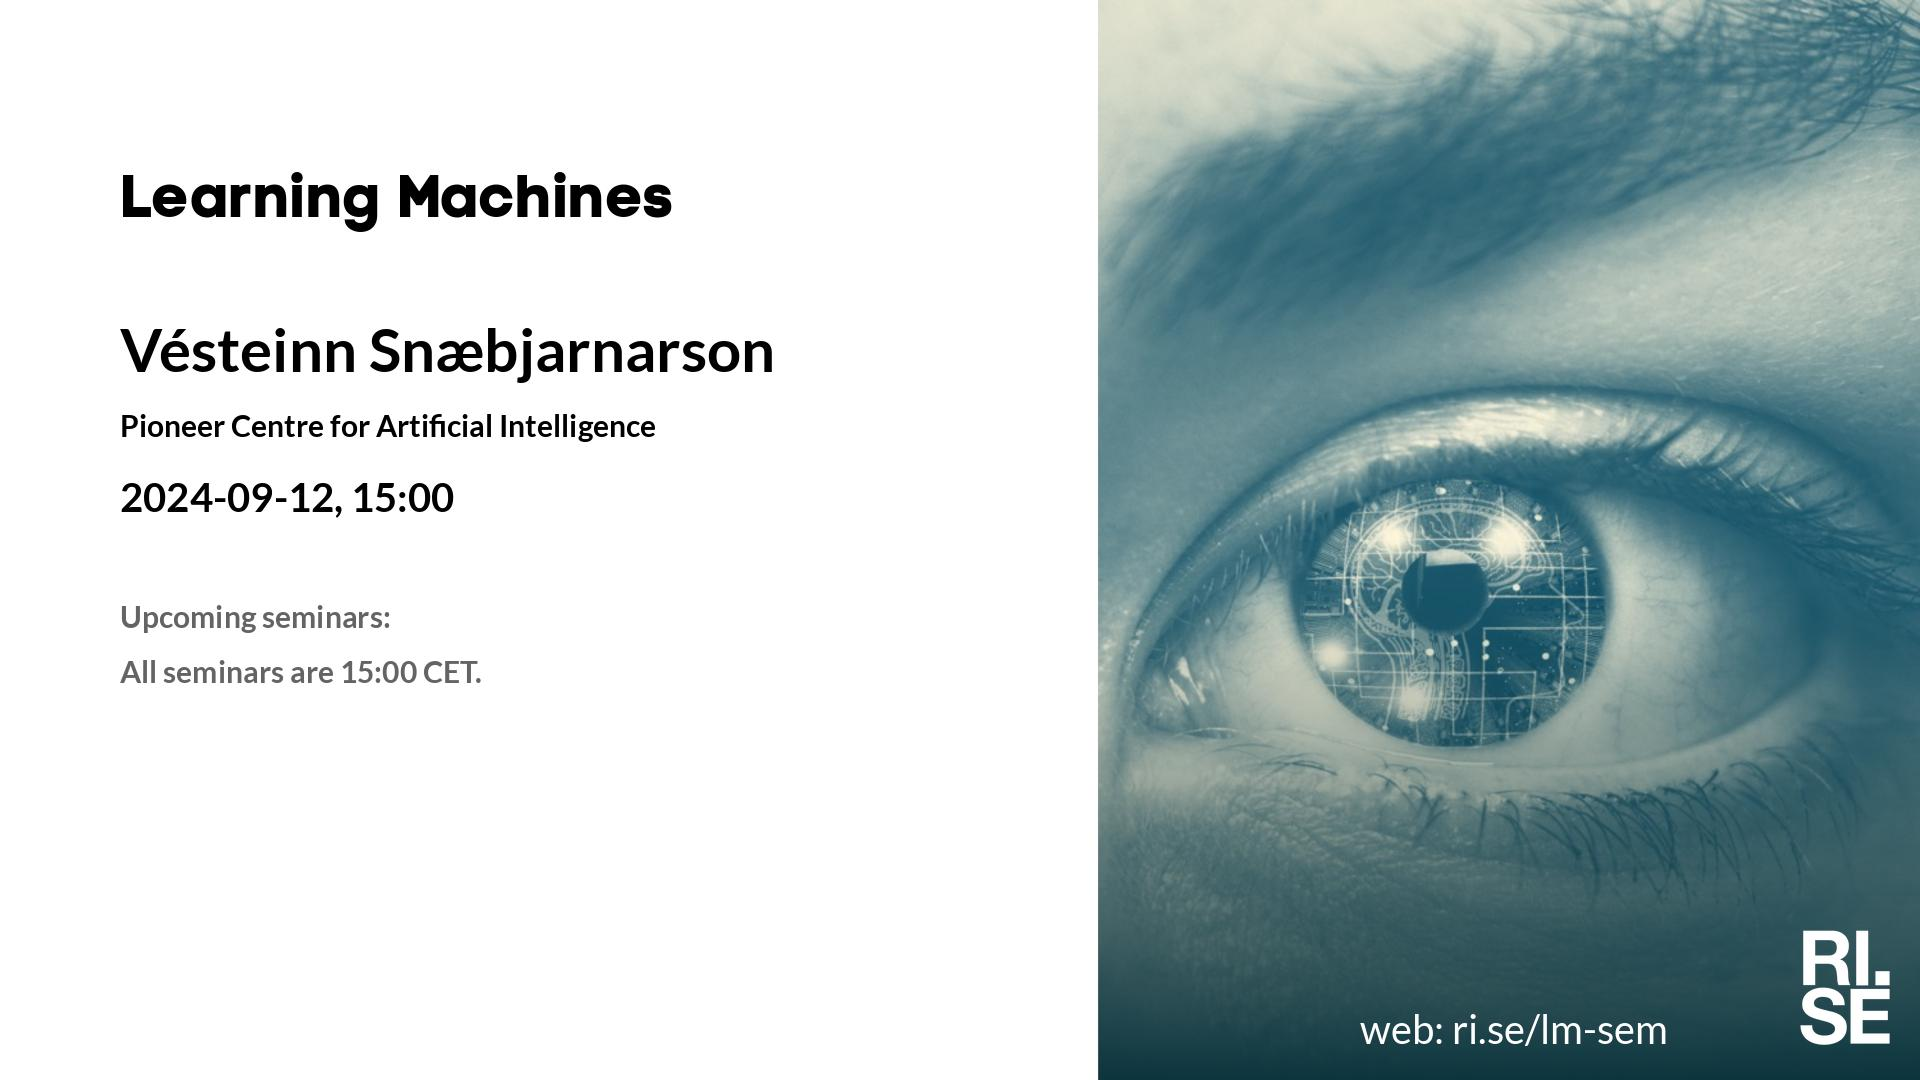
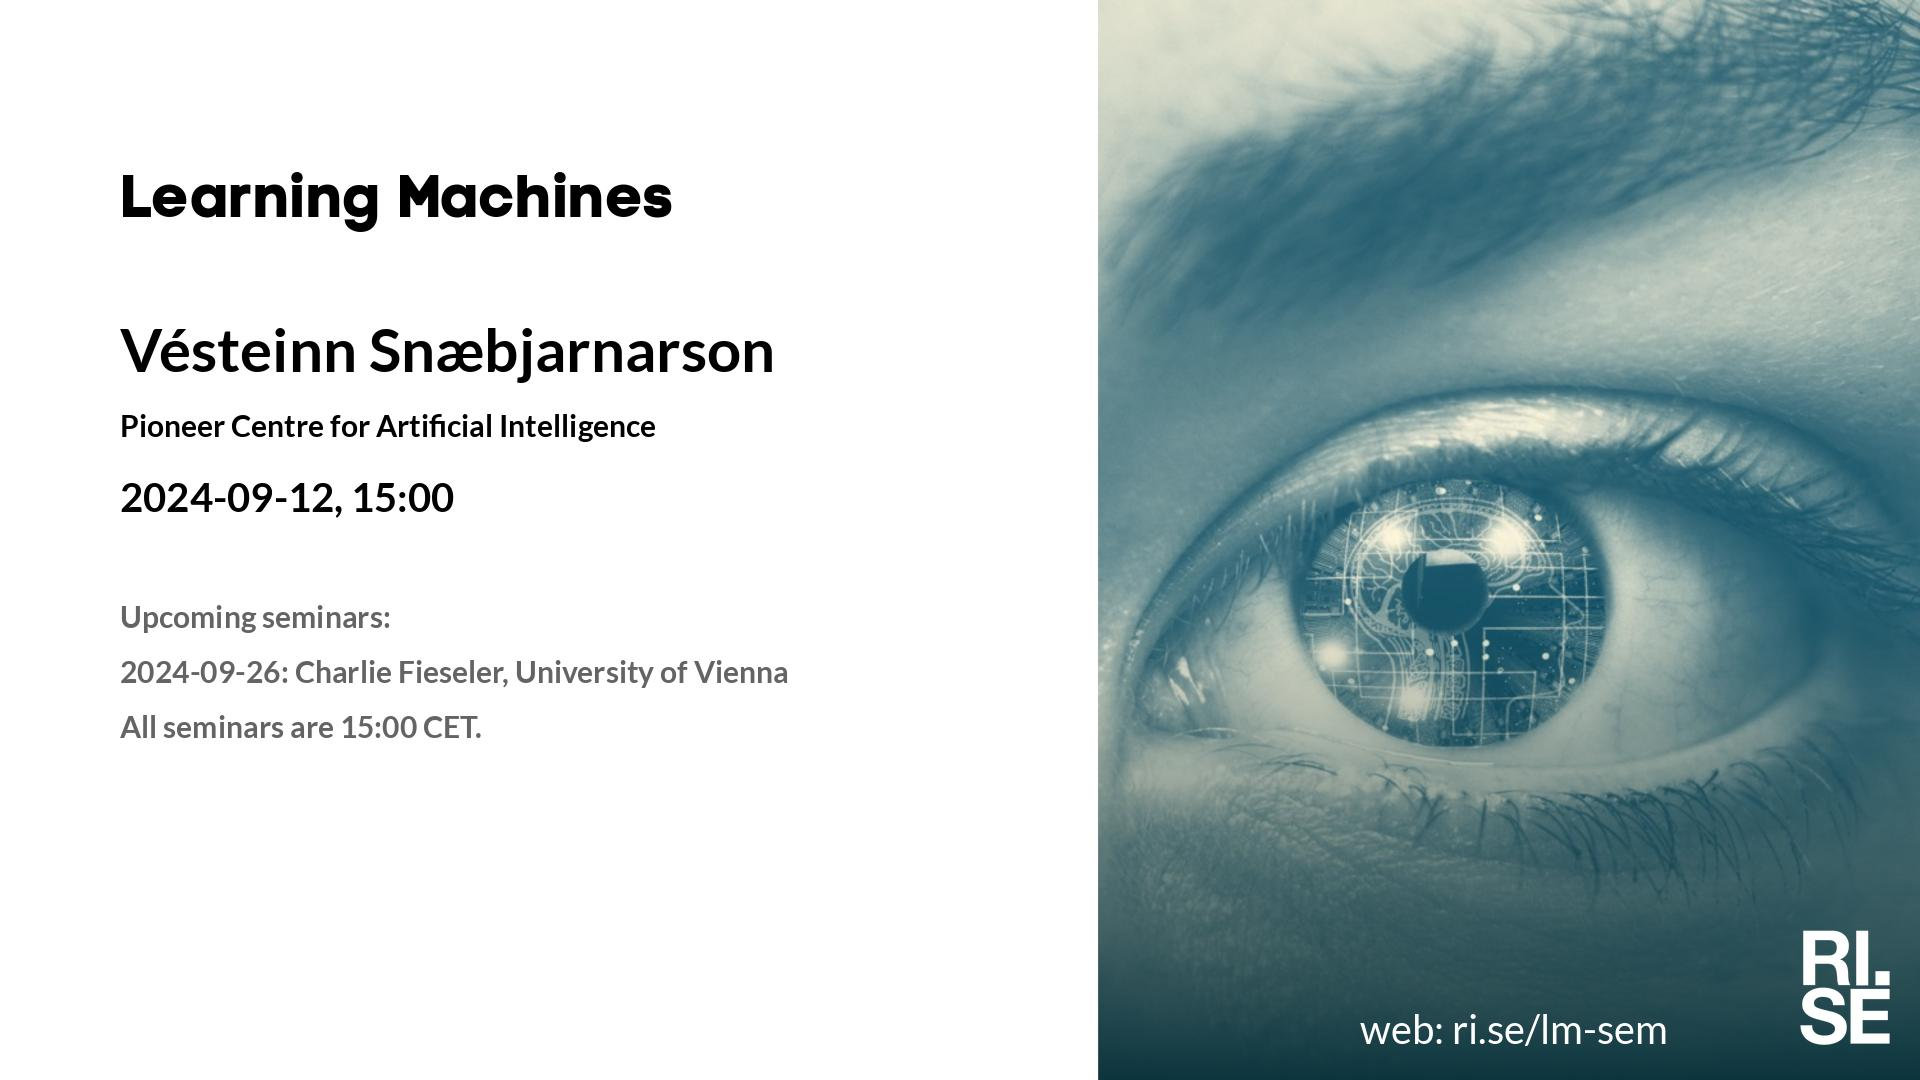
Updated plan on web site.

Changed region(s): [[0.0625, 0.6111, 0.4062, 0.7028]]

diff --git a/lm/index.md b/lm/index.md
@@ -19,7 +19,7 @@ table {border-collapse: collapse;}
 |  2024-09-05  |  [Smita Chakraborty, RISE](2024-09-05.md)  |  [photo](photo-smita-chakraborty.jpg)  |  [social media ](social-media-smita-chakraborty.jpg)  |  [meeting backdrop ](meeting-backdrop-smita-chakraborty.jpg)  |  [youtube thumbnail ](youtube-thumbnail-smita-chakraborty.jpg)  |  S~~TAB~~P  |
 |  2024-09-12  |  [Vésteinn Snæbjarnarson, Pioneer Centre for Artificial Intelligence](2024-09-12.md)  |  [photo](photo-vesteinn-snaebjarnarson.jpg)  |  [social media ](social-media-vesteinn-snaebjarnarson.jpg)  |  [meeting backdrop ](meeting-backdrop-vesteinn-snaebjarnarson.jpg)  |  [youtube thumbnail ](youtube-thumbnail-vesteinn-snaebjarnarson.jpg)  |  S~~TAB~~P  |
 | <span style="color:grey"> 2024-09-19 </span> | <span style="color:grey"> Ekaterina S. ? </span> | <span style="color:grey">  </span> | <span style="color:grey">  </span> | <span style="color:grey">  </span> | <span style="color:grey">  </span> | <span style="color:grey"> S~~TABP~~ </span> |
-| <span style="color:grey"> 2024-09-26 </span> | <span style="color:grey"> Charlie F. ? </span> | <span style="color:grey">  </span> | <span style="color:grey">  </span> | <span style="color:grey">  </span> | <span style="color:grey">  </span> | <span style="color:grey"> S~~TABP~~ </span> |
+|  2024-09-26  |  [Charlie Fieseler, University of Vienna](2024-09-26.md)  |    |  [social media ](social-media-charlie-fieseler.jpg)  |  [meeting backdrop ](meeting-backdrop-charlie-fieseler.jpg)  |  [youtube thumbnail ](youtube-thumbnail-charlie-fieseler.jpg)  |  S~~TABP~~  |
 | <span style="color:grey"> 2024-10-03 </span> | <span style="color:grey"> Milena P. ? </span> | <span style="color:grey">  </span> | <span style="color:grey">  </span> | <span style="color:grey">  </span> | <span style="color:grey">  </span> | <span style="color:grey"> S~~TABP~~ </span> |
 | <span style="color:grey"> 2024-10-10 </span> | <span style="color:grey"> Alp K. ? </span> | <span style="color:grey">  </span> | <span style="color:grey">  </span> | <span style="color:grey">  </span> | <span style="color:grey">  </span> | <span style="color:grey"> S~~TABP~~ </span> |
 | <span style="color:grey"> 2024-10-17 </span> | <span style="color:grey"> Matthias O. ? </span> | <span style="color:grey">  </span> | <span style="color:grey">  </span> | <span style="color:grey">  </span> | <span style="color:grey">  </span> | <span style="color:grey"> S~~TABP~~ </span> |

diff --git a/lm/2024-09-26.md b/lm/2024-09-26.md
@@ -6,7 +6,7 @@ Welcome to this week's Learning Machines seminar.
 
 **Title:** N/A
 
-**Speaker:** Vésteinn Snæbjarnarson, Pioneer Centre for Artificial Intelligence
+**Speaker:** Charlie Fieseler, University of Vienna
 
 **Abstract:** N/A
 
@@ -14,13 +14,12 @@ Welcome to this week's Learning Machines seminar.
 
 **Location:** This is an online seminar. Connect using Zoom.
 
-**Date:** 2024-09-12 15:00
+**Date:** 2024-09-26 15:00
 
-**Zoom link:** [https://rise.zoom.us/j/208117140](https://rise.zoom.us/j/208117140)
+**Zoom link:** [https://rise.zoom.us/j/208117140?pwd=aWh6NFRKMkJNLzBjRWtZTDlvWGw0Zz09](https://rise.zoom.us/j/208117140?pwd=aWh6NFRKMkJNLzBjRWtZTDlvWGw0Zz09)
 
 **Upcoming seminars:**
 
-* 2024-09-26: Charlie Fieseler, University of Vienna
 * All seminars are 15:00 CET.
 
 More information and coming seminars: [https://ri.se/lm-sem](https://ri.se/lm-sem)

diff --git a/lm/2024-09-05.md b/lm/2024-09-05.md
@@ -21,6 +21,7 @@ Welcome to this week's Learning Machines seminar.
 **Upcoming seminars:**
 
 * 2024-09-12: Vésteinn Snæbjarnarson, Pioneer Centre for Artificial Intelligence
+* 2024-09-26: Charlie Fieseler, University of Vienna
 * All seminars are 15:00 CET.
 
 More information and coming seminars: [https://ri.se/lm-sem](https://ri.se/lm-sem)
